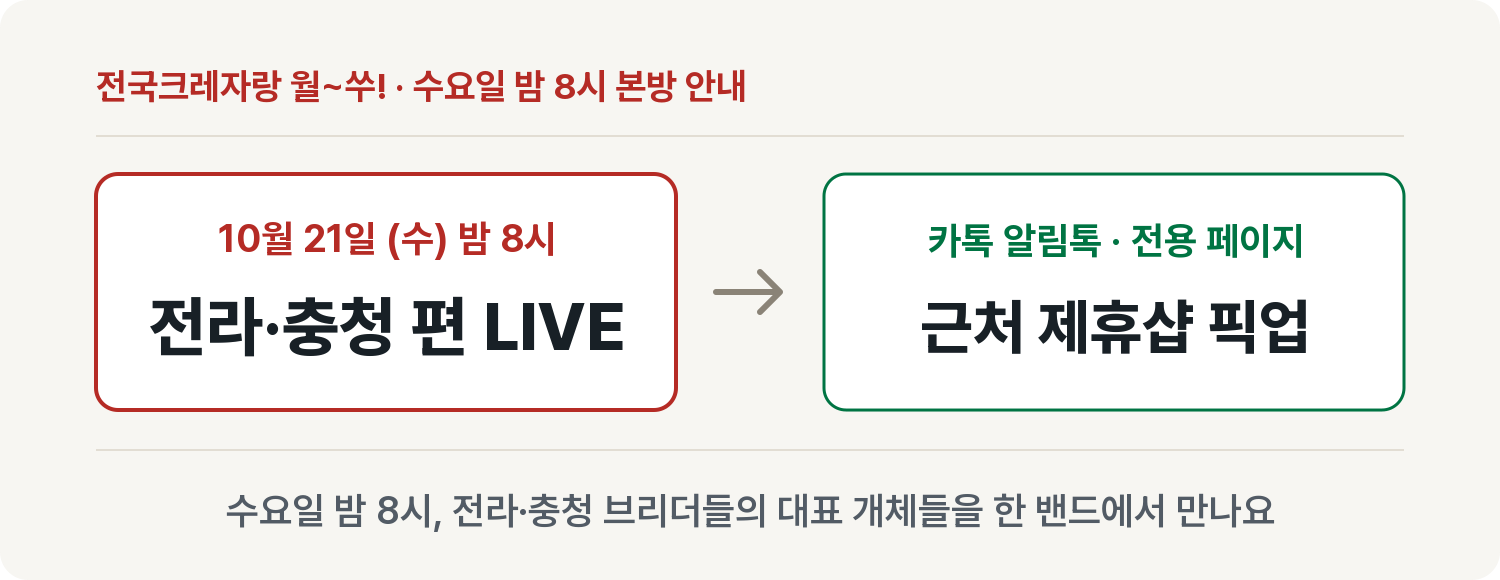
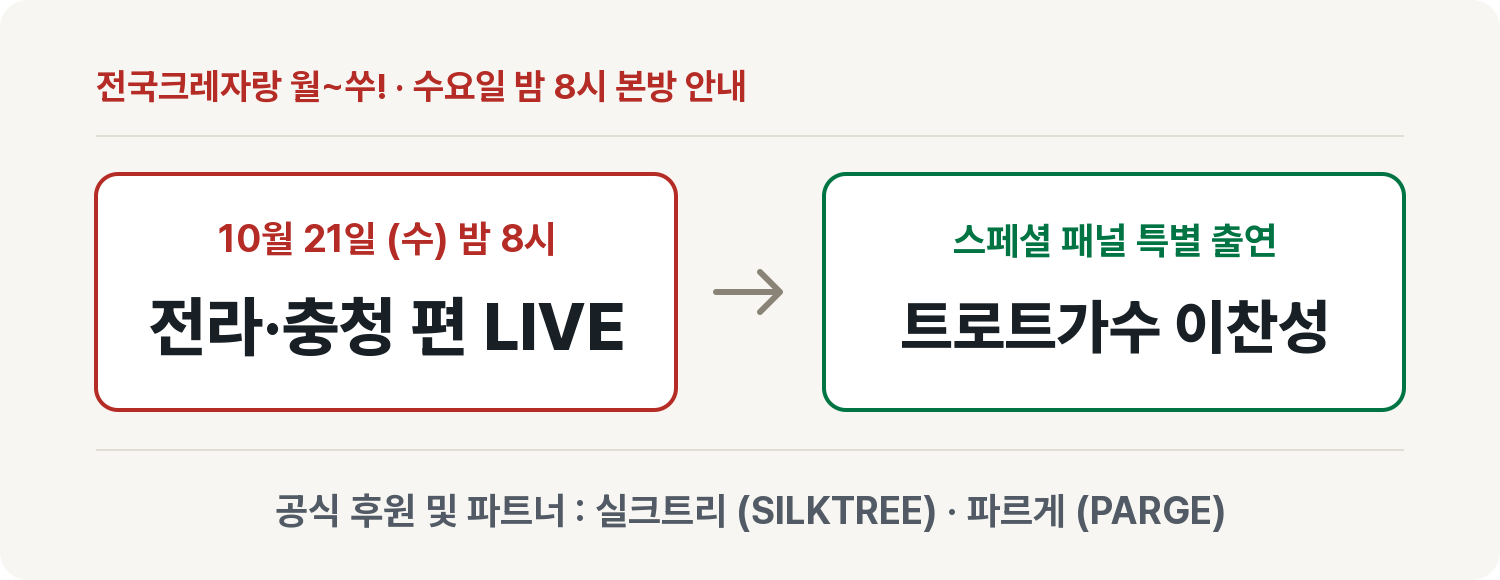
Add special panel Lee Chanseong and official sponsors Silktree & Parge to 10.21 Jeolla-Chungcheong promo manuscripts

diff --git a/test/promo-image-version.test.js b/test/promo-image-version.test.js
@@ -9,8 +9,9 @@ test('updated partner artwork bypasses old browser caches without changing exter
  assert.equal(ctx.imageURL('/promo-assets/partners-20261007.png?download=1&v=old'),'https://creok.onrender.com/promo-assets/partners-20261007-v4.png?download=1&v=old');
  assert.equal(ctx.imageURL('https://example.com/promo-assets/partners-20261007.png?token=keep'),'https://example.com/promo-assets/partners-20261007.png?token=keep');
  assert.equal(ctx.imageURL('/promo-assets/showtime-photo.png'),'https://creok.onrender.com/promo-assets/showtime-photo.png');
- assert.equal(ctx.imageURL('/promo-assets/ticket.png'),'https://creok.onrender.com/promo-assets/ticket-wolssu-gamachi-v1.png');
- assert.equal(ctx.imageURL('/promo-assets/ticket-seoul-incheon-v2.png'),'https://creok.onrender.com/promo-assets/ticket-wolssu-gamachi-v1.png');
+ assert.equal(ctx.imageURL('/promo-assets/ticket.png'),'https://creok.onrender.com/promo-assets/ticket-wolssu-sponsors-v1.png');
+ assert.equal(ctx.imageURL('/promo-assets/ticket-seoul-incheon-v2.png'),'https://creok.onrender.com/promo-assets/ticket-wolssu-sponsors-v1.png');
+ assert.equal(ctx.imageURL('/promo-assets/ticket-wolssu-gamachi-v1.png'),'https://creok.onrender.com/promo-assets/ticket-wolssu-sponsors-v1.png');
  assert.equal(ctx.imageURL('/promo-assets/hero.jpg'),'https://creok.onrender.com/promo-assets/hero-wolssu-v1.png');
  assert.equal(ctx.imageURL('/promo-assets/hero-seoul-incheon-v2.png'),'https://creok.onrender.com/promo-assets/hero-wolssu-v1.png');
  assert.equal(ctx.imageURL('/promo-assets/hero-seoul-incheon-v3.png'),'https://creok.onrender.com/promo-assets/hero-wolssu-v1.png');
@@ -59,20 +60,23 @@ test('shared hero is added once without mutating source blocks, and thumbnails k
  const external={type:'image',src:'https://other.example/promo-assets/hero.jpg'};
  assert.equal(ctx.thumbnailImage({blocks:[external]}),external);
 });
-test('all manuscripts start with hero-wolssu-v1.png and omit sponsor ticket banners',()=>{
+test('all manuscripts start with hero-wolssu-v1.png and include ticket-wolssu-sponsors-v1.png once before the Band link',()=>{
  const source=fs.readFileSync(require.resolve('../public/promo-center.js'),'utf8'),ctx=vm.createContext({URL,location:{origin:'https://creok.onrender.com'},esc:v=>String(v)});
  vm.runInContext(source.slice(source.indexOf(' function imageURL('),source.indexOf('\n const kst=')),ctx);
  vm.runInContext(source.slice(source.indexOf(' function bodyHTML('),source.indexOf('\n function preview(')),ctx);
  for(const t of require('../promo-templates.json')){
   const result=ctx.postBlocks(t);
   assert.equal(result[0].src,'/promo-assets/hero-wolssu-v1.png',t.id);
-  assert.equal(result.filter(b=>ctx.isSharedAsset(b,'ticket')).length,0,t.id);
+  assert.equal(result.filter(b=>ctx.isSharedAsset(b,'ticket')).length,1,t.id);
+  const linkIndex=result.findIndex(b=>b.href);
+  assert.equal(result[linkIndex-1].src,'/promo-assets/ticket-wolssu-sponsors-v1.png',t.id);
   const html=ctx.bodyHTML(t,true);
   assert.equal((html.match(/src="[^\"]*hero-wolssu-v1.png"/g)||[]).length,1,t.id);
+  assert.equal((html.match(/src="[^\"]*ticket-wolssu-sponsors-v1.png"/g)||[]).length,1,t.id);
   assert.doesNotMatch(html,/ticket-wolssu-gamachi|ticket-seoul-incheon|seoul-incheon-premiere-map/,t.id);
  }
 });
-test('legacy map or old ticket blocks are stripped and normalized to hero-wolssu-v1.png without tickets',()=>{
+test('legacy map or old ticket blocks are stripped and normalized to hero-wolssu-v1.png and ticket-wolssu-sponsors-v1.png',()=>{
  const source=fs.readFileSync(require.resolve('../public/promo-center.js'),'utf8'),ctx=vm.createContext({URL,location:{origin:'https://creok.onrender.com'},esc:v=>String(v)});
  vm.runInContext(source.slice(source.indexOf(' function imageURL('),source.indexOf('\n const kst=')),ctx);
  vm.runInContext(source.slice(source.indexOf(' function bodyHTML('),source.indexOf('\n function preview(')),ctx);
@@ -82,6 +86,7 @@ test('legacy map or old ticket blocks are stripped and normalized to hero-wolssu
   const html=ctx.bodyHTML(mixed,copying);
   assert.match(html,/^<p[^>]*><img src="https:\/\/creok.onrender.com\/promo-assets\/hero-wolssu-v1.png"/);
   assert.equal((html.match(/src="[^"]*hero-wolssu-v1.png"/g)||[]).length,1);
+  assert.equal((html.match(/src="[^"]*ticket-wolssu-sponsors-v1.png"/g)||[]).length,1);
   assert.doesNotMatch(html,/seoul-incheon-premiere-map|ticket-seoul-incheon|ticket-wolssu-gamachi/);
  }
  assert.equal(JSON.stringify(t),before);

diff --git a/public/promo-center.js b/public/promo-center.js
@@ -6,7 +6,7 @@
  function imageURL(src){
   const url=new URL(src,location.origin);
   if(url.origin===location.origin&&/^\/promo-assets\/partners-20261007\.(png|thumb\.webp)$/.test(url.pathname))url.pathname=url.pathname.replace('partners-20261007.','partners-20261007-v4.');
-  if(url.origin===location.origin&&/^\/promo-assets\/ticket(?:-seoul-incheon-v2)?\.(png|thumb\.webp)$/.test(url.pathname))url.pathname=url.pathname.replace(/^\/promo-assets\/ticket(?:-seoul-incheon-v2)?\./,'/promo-assets/ticket-wolssu-gamachi-v1.');
+  if(url.origin===location.origin&&/^\/promo-assets\/ticket(?:-seoul-incheon-v2|-wolssu-gamachi-v1)?\.(png|thumb\.webp)$/.test(url.pathname))url.pathname=url.pathname.replace(/^\/promo-assets\/ticket(?:-seoul-incheon-v2|-wolssu-gamachi-v1)?\./,'/promo-assets/ticket-wolssu-sponsors-v1.');
   if(url.origin===location.origin&&/^\/promo-assets\/(weekly|easy)\.(png|thumb\.webp)$/.test(url.pathname))url.pathname=url.pathname.replace(/\.(png|thumb\.webp)$/,'-v2.$1');
   if(url.origin===location.origin&&['/promo-assets/hero.jpg','/promo-assets/hero-seoul-incheon-v2.png','/promo-assets/hero-seoul-incheon-v3.png','/promo-assets/seoul-incheon-premiere-map-v7.png'].includes(url.pathname))url.pathname='/promo-assets/hero-wolssu-v1.png';
   return url.href;
@@ -16,7 +16,7 @@
   const url=new URL(block.src,location.origin);
   return url.origin===location.origin&&['/promo-assets/hero.jpg','/promo-assets/hero-seoul-incheon-v2.png','/promo-assets/hero-seoul-incheon-v3.png','/promo-assets/seoul-incheon-premiere-map-v7.png','/promo-assets/hero-wolssu-v1.png'].includes(url.pathname);
  }
- function isSharedAsset(b,kind){if(b.type!=='image')return false;const u=new URL(b.src,location.origin);return u.origin===location.origin&&(kind==='ticket'?/^\/promo-assets\/ticket(?:-seoul-incheon-v2|-wolssu-gamachi-v1)?\.png$/:/^\/promo-assets\/partners-20261007(?:-v4)?\.png$/).test(u.pathname);}
+ function isSharedAsset(b,kind){if(b.type!=='image')return false;const u=new URL(b.src,location.origin);return u.origin===location.origin&&(kind==='ticket'?/^\/promo-assets\/ticket(?:-seoul-incheon-v2|-wolssu-gamachi-v1|-wolssu-sponsors-v1)?\.png$/:/^\/promo-assets\/partners-20261007(?:-v4)?\.png$/).test(u.pathname);}
  function postBlocks(t,images=[]){
   const blocks=[],hasBoard=t.blocks.some(b=>isSharedAsset(b,'partners'));
   let inserted=false;
@@ -28,7 +28,7 @@
    // Insert once, immediately after the paragraph introducing the participating vendors.
    if(!hasBoard&&!inserted&&b.type==='text'&&(/다양한 크레들을 선보일 예정|다양한 크레들을 선보입니다|30여 곳의 전문|전국의 전문 브리더|여러 업체의 크레|여러 지역의 전문 업체|지역별 전문 업체가 돌아가며 참여/.test(b.text))){blocks.push(...images.map(i=>({...i,type:'image'})));inserted=true;}
   }
-  if(!inserted&&images.length){const index=blocks.findIndex(b=>b.href);blocks.splice(index<0?blocks.length:index,0,...images.map(i=>({...i,type:'image'})));}
+  if(!inserted&&images.length){const index=blocks.findIndex(b=>b.href);blocks.splice(index<0?blocks.length:index,0,...images.map(i=>({...i,type:'image'})));}const ticket={type:'image',src:'/promo-assets/ticket-wolssu-sponsors-v1.png',alt:'전국크레자랑 공식 후원 및 파트너 · 실크트리(SILKTREE) · 파르게(PARGE)'};const linkIndex=blocks.findIndex(b=>b.href);blocks.splice(linkIndex<0?blocks.length:linkIndex,0,ticket);
 
 
   const header={type:'image',src:'/promo-assets/hero-wolssu-v1.png',alt:'전국크레자랑 월쑤! 매주 월·수 밤 8시 네이버 밴드 LIVE 경매'};

diff --git a/test/promo-copy-polish.test.js b/test/promo-copy-polish.test.js
@@ -27,7 +27,7 @@ test('copy hooks keep genre voices but remove unsupported system and quality cla
  }
  assert.equal(seed.find(t=>t.id==='wolssu26-taste').blocks[0].text,'매주 월·수 밤 8시 ‘월~쑤!’\n당신은 어떤 크레에 끌리시나요');
 });
-test('all published seeds use centered copy, no image notes or parcel claims, specialist delivery, and standalone Jeolla-Chungcheong schedule',()=>{
+test('all published seeds use centered copy, no image notes or parcel claims, specialist delivery, standalone Jeolla-Chungcheong schedule, Lee Chanseong, and Silktree/Parge sponsors',()=>{
  const seed=require('../promo-templates.json');assert.equal(seed.length,5);
  for(const template of seed){
   const text=template.blocks.filter(b=>b.type==='text'),joined=text.map(b=>b.text).join('\n')+'\n'+template.title;
@@ -37,6 +37,9 @@ test('all published seeds use centered copy, no image notes or parcel claims, sp
   assert.match(joined,/생물 전문 배송|전문 배송업체/,template.id);
   assert.match(joined,/10월 21일|10\.21/,template.id);
   assert.match(joined,/전라·충청 편/,template.id);
+  assert.match(joined,/이찬성/,template.id);
+  assert.match(joined,/실크트리/,template.id);
+  assert.match(joined,/파르게/,template.id);
   const chars=text.map(b=>b.text).join('').length;
   assert.ok(chars>=550&&chars<=750,`${template.id} length=${chars}`);
   assert.ok(template.blocks.filter(b=>b.type==='image').every(b=>!b.alt.includes('AI 연출')),template.id);
